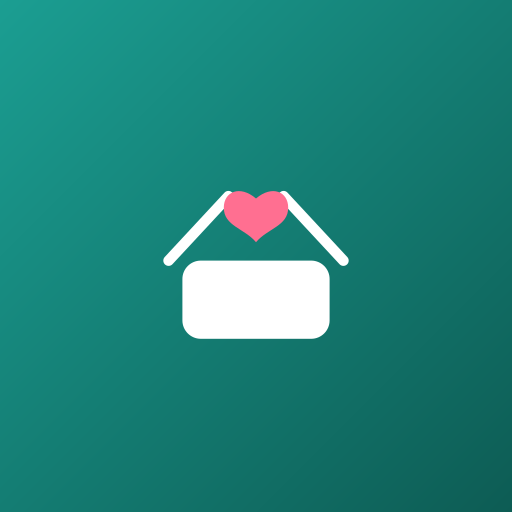
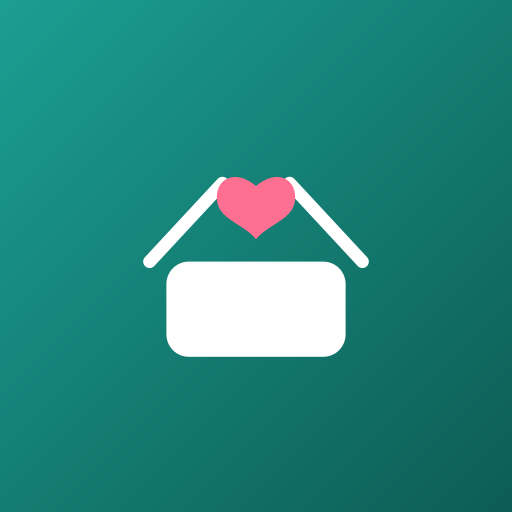
fix: 앱 아이콘 집 모양 크기 키움
Claude-Session: https://claude.ai/code/session_01Mv7auMn4V5NiMrjj43ujWq

Changed region(s): [[0.2812, 0.3438, 0.7188, 0.7188], [0.4688, 0.4375, 0.5312, 0.4688]]

diff --git a/sw.js b/sw.js
@@ -2,7 +2,7 @@
 // Supabase(인증/DB/Edge Function), 토스페이먼츠, 뉴스/공시 외부 사이트는 절대 건드리지 않음 —
 // 이 캐시 로직은 이 사이트(같은 출처)의 GET 요청에만 적용됨.
 
-const CACHE_NAME = "goods-shop-cache-v165";
+const CACHE_NAME = "goods-shop-cache-v166";
 
 // 자주 보는 페이지 + 공용 자산은 설치 시점에 미리 캐시해둠 (오프라인에서도 바로 열리도록)
 const PRECACHE_URLS = [
